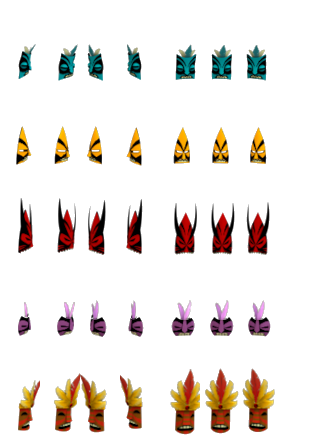
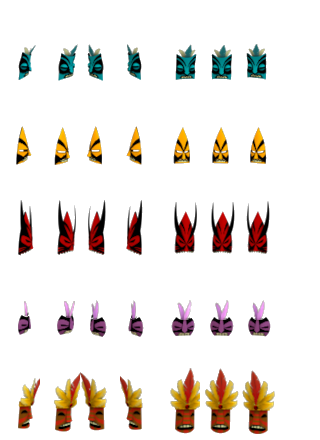
VV2 mask: equalize mask Y across all 7 frames (no vertical bob)
The atlas placed each mask's vertical anchor per-frame
(ADULT_LIFT + ghc[f].y + off[f].y), so a mask could sit at a
slightly different height as the head turned L/R — a subtle
up/down bob between facings.

Hold the vertical anchor constant across all 7 frames per mask:
use the mean of the per-frame (head-center-y + offset-y) so the
tuned MASK_DY placement is preserved, while X still follows the
head's facing. Regenerated heathen_masks.png (repo copy for the
DLL RCDATA re-embed; live playtest atlas already deployed).

diff --git a/scripts/build_vv2_mask_atlas_exact.py b/scripts/build_vv2_mask_atlas_exact.py
@@ -81,17 +81,27 @@ def build():
     for mi, nm in enumerate(MASKS):
         bh = bh_chief if nm == "chief" else bh_other
         pm = _blobs(f"{FOLDER}/vv5 mask port {nm}.png")
+        # Per-frame horizontal offset (mask follows the head as it faces L/R), but
+        # the VERTICAL anchor is EQUALIZED across all 7 frames so the mask never
+        # bobs up/down between facing directions. Use the mean of the per-frame
+        # head-center-y + offset-y so the tuned MASK_DY placement is preserved.
+        offs = []
         for f in range(FRAMES):
             hc = _center(bh[f]); mc = _center(pm[f])          # canvas centers
-            off = (mc[0] - hc[0], mc[1] - hc[1])              # mask center vs head center
+            offs.append((mc[0] - hc[0], mc[1] - hc[1]))        # mask center vs head center
+        vy_mean = sum(ghc[f][1] + offs[f][1] for f in range(FRAMES)) / float(FRAMES)
+        ay_const = ADULT_LIFT + vy_mean + MASK_DY.get(nm, 0)   # constant screen-y, atlas
+        vy_const = 30 + vy_mean + MASK_DY.get(nm, 0)           # constant screen-y, verify
+        for f in range(FRAMES):
+            off = offs[f]
             mimg = pm[f][4]
             s = MASK_SCALE.get(nm, 1.0)
             if s != 1.0:
                 mimg = mimg.resize((max(1, round(mimg.width * s)), max(1, round(mimg.height * s))), Image.LANCZOS)
             mw, mh = mimg.size
-            # atlas: place mask center at (ghc_x + off_x, LIFT + ghc_y + off_y)
+            # atlas: place mask center at (ghc_x + off_x, ay_const) — Y equal for all frames
             ax = ghc[f][0] + off[0] + MASK_DX.get(nm, 0)
-            ay = ADULT_LIFT + ghc[f][1] + off[1] + MASK_DY.get(nm, 0)
+            ay = ay_const
             px = int(round(ax - mw / 2.0)); py = int(round(ay - mh / 2.0))
             # composite into THIS cell only, clipping any overflow so it never bleeds into the
             # neighbouring frame's cell (the "extra pixels to the side").
@@ -106,7 +116,7 @@ def build():
             cell.alpha_composite(g_img.crop((f * HW, 0, f * HW + HW, HH)), (0, 30))
             # mask center at head-center + off (screen), head drawn at +30
             vmx = int(round(ghc[f][0] + off[0] + MASK_DX.get(nm, 0) - mw / 2.0))
-            vmy = int(round(30 + ghc[f][1] + off[1] + MASK_DY.get(nm, 0) - mh / 2.0))
+            vmy = int(round(vy_const - mh / 2.0))
             cell.alpha_composite(mimg, (vmx, vmy))
             verify.alpha_composite(cell, (f * HW, vy))
     atlas.save(OUT_ATLAS)
